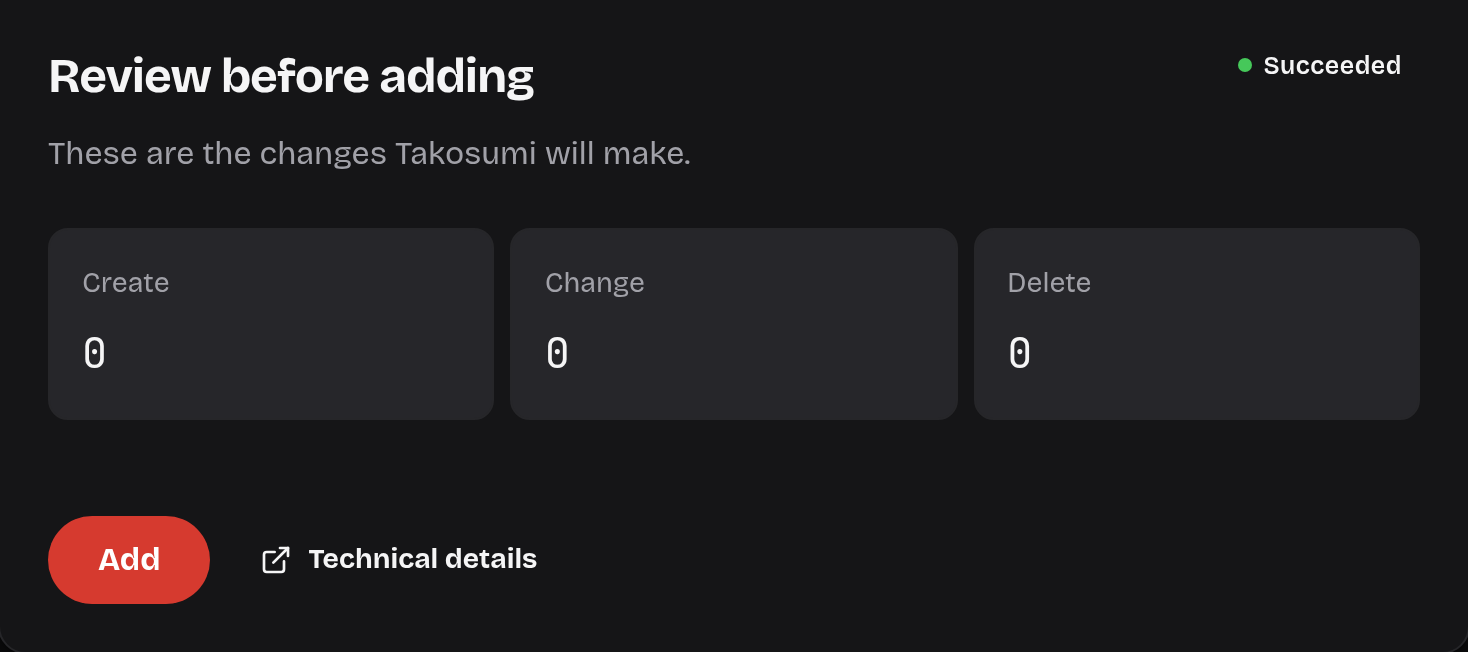
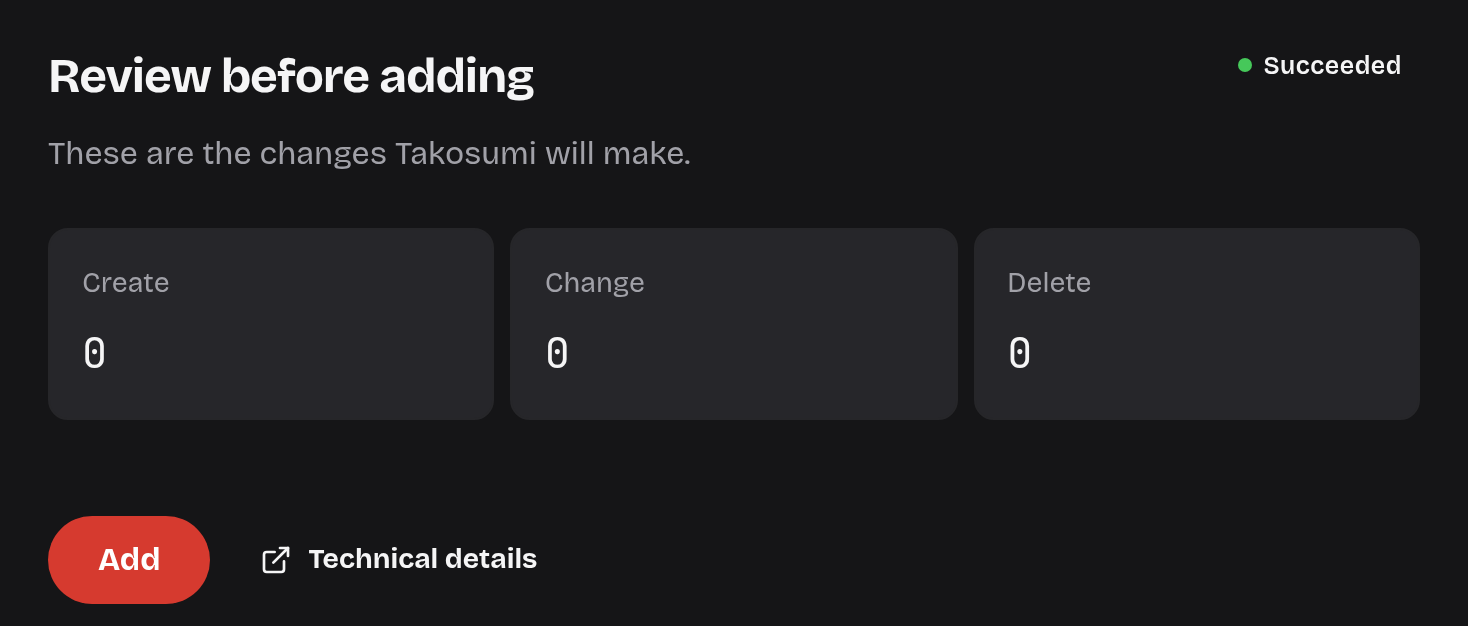
website, docs: tighten the capture guards and correct its provenance
Review follow-up. The Quickstart capture now stops if any .tf file in the
sample declares resources, data or modules, or if a manifest input needs more
than the plain mapping it applies. The setup and review crops end above the
card's rounded corners. The provenance no longer dates the review images to
2026-09-28, says the add-flow stub also serves the Quickstart screens, notes
that the Store images are kept but no longer shown, and says the Takos review
skips the module's real setup step.

diff --git a/website/scripts/capture-product-ui-provenance.md b/website/scripts/capture-product-ui-provenance.md
@@ -52,8 +52,8 @@ verify all three selections on the final website at desktop and mobile widths.
 The twelve `dashboard-home-*`, `dashboard-install-*` and `dashboard-review-*`
 images capture this checkout's actual `dashboard` SPA,
 built from source and served by the
-repository's portable browser fixture server. They were captured on
-2026-09-28. The original dark images came from checkout
+repository's portable browser fixture server. The Home and Store images were
+first captured on 2026-09-28; the review images are described below. The original dark images came from checkout
 `d4b1c52f8434cb163ac76f1a4682baf564612acc`; the matching light images
 came from checkout `3820a6359e7e044d5283b662540f80212b3929d9`.
 The dark and light desktop Home images were refreshed on 2026-10-04 from
@@ -70,7 +70,9 @@ Takos, Takos Office, and Yurucommu, with `example.test` launch URLs and
 real API projections; they do not describe installed production services or
 available official Store listings. The Store images show the Store with
 three listings before one is chosen, not completed configuration or
-installation. All non-GET requests and external browser requests are blocked. The
+installation; the landing no longer shows them, but the script still keeps them
+current. Outside the add-flow screens below, all non-GET requests and external
+browser requests are blocked. The
 Takos icon is the current `website/public/apps/takos.png`; Office and
 Yurucommu use this repository's `dashboard/public/brand/` SVGs. All three
 are fulfilled locally at an illustrative icon origin.
@@ -79,9 +81,10 @@ requests, and missing product cards fail the capture.
 
 The four `dashboard-review-*` images, captured on 2026-10-15 from the dashboard
 source at `d128a386f` (after #493 fixed the 「ホスト / アカウント」 row), show the
-add flow's 「追加前の確認」 screen for Takos, reached by opening `/new` with an example Git URL and pressing
-「追加」 in the real dashboard. Only for this screen, the script answers the add
-flow's API calls in the browser, following the shapes used by the dashboard's
+add flow's 「追加前の確認」 screen for Takos, reached by opening `/new` with an
+example Git URL and pressing 「追加」 in the real dashboard. For this screen and
+the Quickstart screens, the script answers the add flow's API calls in the
+browser, following the shapes used by the dashboard's
 portable e2e fixture: source registration and sync, the resolved snapshot and
 its module, a compatibility report that requires the Cloudflare provider, one
 verified workspace connection for it, the default install config, the install
@@ -92,8 +95,14 @@ approval, or apply. The one value derived from a real source is the change
 count: takos v0.12.7 `deploy/opentofu/cloudflare` creates 1 D1 database, 1 KV
 namespace, 5 R2 buckets and 6 queues on a fresh install, so the Run reports 13
 to create, 0 to change and 0 to delete, with policy passing and no approval
-required. The capture fails unless the screen shows those three counts and its
-「追加する」 button.
+required. The real Takos module also asks for settings on 「サービスを設定」
+(a required 「Cloudflare デプロイ設定」 and optional public URL and Takosumi
+Accounts inputs in its v0.12.7 manifest) before this review; the
+stub uses the default install config, so that step is skipped and the image
+shows only the review. The 13 covers the module's own resources; the Vectorize
+index and Worker upload that Takos performs in its own follow-up step are not
+part of this plan. The capture fails unless the screen shows those three counts
+and its 「追加する」 button.
 
 Desktop Home, Store and review use the complete 1200 × 750 viewport, with no
 screenshot clip. Mobile Home uses 390 × 700, and

diff --git a/docs/en/getting-started/quickstart.md b/docs/en/getting-started/quickstart.md
@@ -100,8 +100,8 @@ fields and no connection to choose. Both are optional. Leave them blank and pres
 **Continue**: the module's defaults apply, and Takosumi prepares the changes
 (a plan) before anything is deployed.
 
-[![Set up the service. The optional Name and Example public URL fields are empty, with the Continue button below](/getting-started/quickstart-setup-en.png){.screenshot width=1468 height=558}](/getting-started/quickstart-setup-en.png){.light-only}
-[![Set up the service. The optional Name and Example public URL fields are empty, with the Continue button below](/getting-started/quickstart-setup-en-dark.png){.screenshot width=1468 height=558}](/getting-started/quickstart-setup-en-dark.png){.dark-only}
+[![Set up the service. The optional Name and Example public URL fields are empty, with the Continue button below](/getting-started/quickstart-setup-en.png){.screenshot width=1468 height=532}](/getting-started/quickstart-setup-en.png){.light-only}
+[![Set up the service. The optional Name and Example public URL fields are empty, with the Continue button below](/getting-started/quickstart-setup-en-dark.png){.screenshot width=1468 height=532}](/getting-started/quickstart-setup-en-dark.png){.dark-only}
 
 When it is ready, **Review before adding** shows how many resources will be
 created, changed, and deleted. The example has no provider and creates no
@@ -110,8 +110,8 @@ and state storage without cloud credentials. The **Succeeded** badge next to the
 heading means the plan was made; nothing has been added yet. After checking the changes, press
 **Add** again to start the apply.
 
-[![Review before adding. Create 0, Change 0 and Delete 0 are shown, with the Add button and the Technical details link below](/getting-started/quickstart-review-en.png){.screenshot width=1468 height=652}](/getting-started/quickstart-review-en.png){.light-only}
-[![Review before adding. Create 0, Change 0 and Delete 0 are shown, with the Add button and the Technical details link below](/getting-started/quickstart-review-en-dark.png){.screenshot width=1468 height=652}](/getting-started/quickstart-review-en-dark.png){.dark-only}
+[![Review before adding. Create 0, Change 0 and Delete 0 are shown, with the Add button and the Technical details link below](/getting-started/quickstart-review-en.png){.screenshot width=1468 height=626}](/getting-started/quickstart-review-en.png){.light-only}
+[![Review before adding. Create 0, Change 0 and Delete 0 are shown, with the Add button and the Technical details link below](/getting-started/quickstart-review-en-dark.png){.screenshot width=1468 height=626}](/getting-started/quickstart-review-en-dark.png){.dark-only}
 
 A change that deletes, replaces, or imports a resource first needs
 **Approve this change**, then the **I reviewed these changes** checkbox, before
